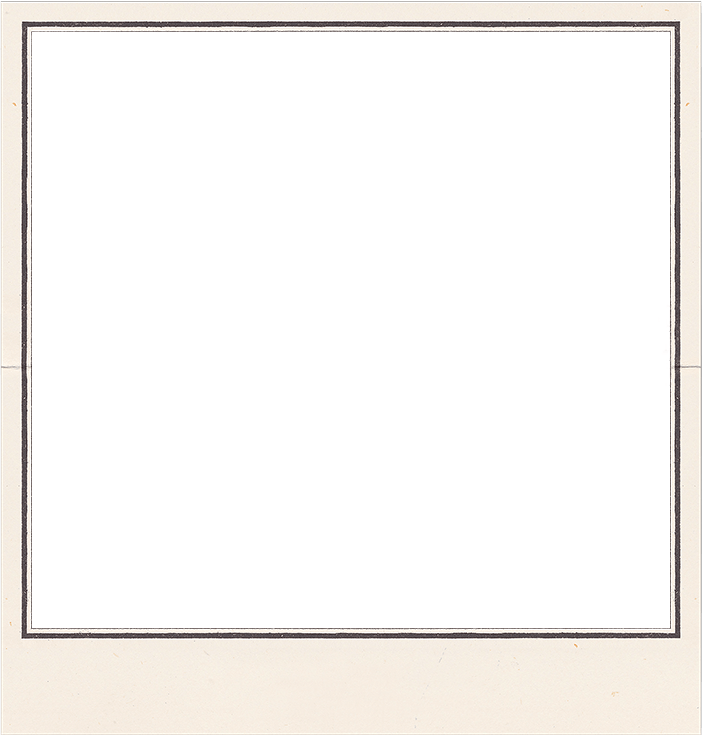
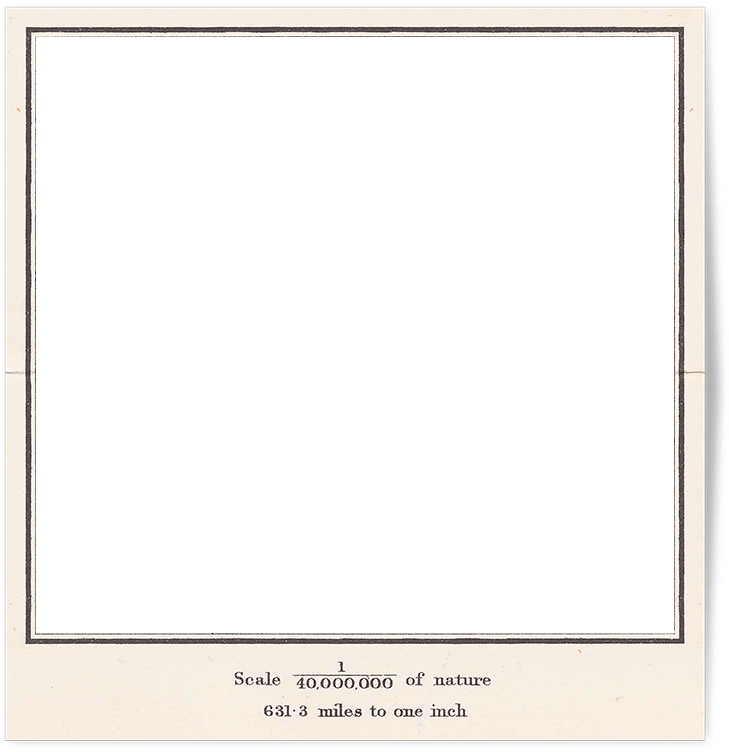
Listen section objects now fade in after record is playing. Fixed record noises not playing after the first play. Increased size of record/albums on desktop. Updated map asset.

Changed region(s): [[0.0, 0.0, 1.0, 1.0]]

diff --git a/app/js/components/ListenSection.js b/app/js/components/ListenSection.js
@@ -58,20 +58,29 @@ export default class ListenSection extends Component {
 			if (typeof value === 'undefined') {
 				return
 			}
-			this.elements.about.removeClass('show')
-			this.elements.work.removeClass('show')
-			this.elements.contact.removeClass('show')
+			this.elements.about.addClass('fade-out')
+			this.elements.contact.addClass('fade-out')
+			this.elements.work.addClass('fade-out')
+			break
+		case 'playing':
+			if (typeof this.global.currentRecord === 'undefined') {
+				return
+			}
 
-			switch (value) {
+			this.elements.about.removeClass('fade-out').removeClass('fade-in')
+			this.elements.contact.removeClass('fade-out').removeClass('fade-in')
+			this.elements.work.removeClass('fade-out').removeClass('fade-in')
+
+			switch (this.global.currentRecord) {
 			case Enum.ALBUMS.ABOUT:
-				this.elements.about.addClass('show')
+				this.elements.about.addClass('fade-in')
 				break
 			case Enum.ALBUMS.CONTACT:
-				this.elements.contact.addClass('show')
+				this.elements.contact.addClass('fade-in')
 				this.resize()
 				break
 			case Enum.ALBUMS.WORK:
-				this.elements.work.addClass('show')
+				this.elements.work.addClass('fade-in')
 				break
 			default:
 				break

diff --git a/app/index.html b/app/index.html
@@ -112,7 +112,7 @@
 					<img class="background" src="images/player.jpg" />
 				</div>
 				<div class="listen-section">
-					<div class="about content show"></div>
+					<div class="about content"></div>
 					<div class="work content">
 						<div class="title-container">
 							<div class="tv-title"><img src="images/Item_Envelope_TV.png"></div>
@@ -152,6 +152,7 @@
 						<br>
 						<h4>Tom</h4>
 						<p>Musicians, actors, celebrities, writers, producers and clients love Tom’s low key control. Having spent time in each role, he understandsthe needs and the headspace of each. As well being a business person, clients know that he truly understands their business. If you were listening instead of reading, you’d be hearing his smooth voice.</p>
+						<img class="cactus" src="images/Item_Cactus.png">
 					</div>
 					<div class="work content">
 						<p>At Tom & Dave, we have over 30 years of experience crafting radio, TV, and more for a variety of clients.</p>
@@ -210,6 +211,7 @@
 		</div>
 	</div>
 </div>
+<script src="https://cdn.polyfill.io/v2/polyfill.js?features=Object.values"></script>
 <script src="//www.youtube.com/iframe_api" async></script>
 </body>
 </html>

diff --git a/app/scss/global/_ListenSection.scss b/app/scss/global/_ListenSection.scss
@@ -7,7 +7,14 @@
 
 	.content {
 		opacity: 0;
-		display: none;
+		visibility: hidden;
+		transform: translateY(20px);
+		transition: transform 0.8s;
+		transition-timing-function: ease-out;
+
+		&.fade-in {
+			transform: translateY(0px);
+		}
 	}
 
 	@media(max-width: $phone) {
@@ -40,46 +47,6 @@
 	display: none;
 	text-align: center;
 	margin-bottom: 30px;
-}
-
-.contact {
-	.map {
-		position: relative;
-		width: 80%;
-		margin-left: 50%;
-		transform: translateX(-50%);
-		margin-bottom: 80px;
-
-		.foreground {
-			position: absolute;
-			top: 0;
-			left: 0;
-			width: 100%;
-			z-index: 4;
-			pointer-events: none;
-		}
-
-		.middleground {
-			position: absolute;
-			width: 93%;
-			left: 4%;
-			top: 4%;
-			transition: opacity 0.3s;
-			z-index: 3;
-		}
-
-		.background {
-			position: relative;
-			width: 92.5%;
-			margin-left: 4%;
-			margin-top: 4%;
-			z-index: 2;
-		}
-
-		iframe {
-			pointer-events: auto;
-		}
-	}
 }
 
 .work {

diff --git a/app/scss/global/_ReadSection.scss b/app/scss/global/_ReadSection.scss
@@ -44,6 +44,13 @@
 				font-size: 9pt;
 			}
 		}
+
+		.cactus {
+			position: relative;
+			margin-top: 40px;
+			left: 68%;
+			width: 180px;
+		}
 	}
 
 	.work {
@@ -54,7 +61,42 @@
 
 	.contact {
 		.map {
+			position: relative;
+			width: 80%;
+			margin-left: 50%;
+			transform: translateX(-50%);
+			margin-bottom: 80px;
 			margin-top: 20px;
+	
+			.foreground {
+				position: absolute;
+				top: -5px;
+				left: 0;
+				width: 100%;
+				z-index: 4;
+				pointer-events: none;
+			}
+	
+			.middleground {
+				position: absolute;
+				width: 88%;
+				left: 5%;
+				top: 4%;
+				transition: opacity 0.3s;
+				z-index: 3;
+			}
+	
+			.background {
+				position: relative;
+				width: 88%;
+				margin-left: 5%;
+				margin-top: 4%;
+				z-index: 2;
+			}
+	
+			iframe {
+				pointer-events: auto;
+			}
 		}
 	}
 

diff --git a/app/scss/global/_RecordPlayer.scss b/app/scss/global/_RecordPlayer.scss
@@ -1,8 +1,8 @@
 .record-player {
 	position: relative !important;
 	@include hcenter();
-	width: 320px;
-	top: 300px;
+	width: 350px;
+	top: 320px;
 	z-index: 1;
 
 	.background {
@@ -12,8 +12,8 @@
 	.play-button {
 		position: absolute;
 		width: percentage(75 / 490);
-		bottom: 18px;
-		left: 16px;
+		bottom: 19px;
+		left: 18px;
 		cursor: pointer;
 
 		.stopped, .normal {
@@ -58,8 +58,8 @@
 
 	.record {
 		position: absolute;
-		width: 180px;
-		left: 70px;
+		width: 200px;
+		left: 75px;
 		top: 16px;
 		z-index: 2;
 
@@ -92,8 +92,8 @@
 	.needle {
 		position: absolute;
 		width: 91.6%;
-		top: -96px;
-		right: -104px;
+		top: -104px;
+		right: -114px;
 		z-index: 5;
 
 		&.active {

diff --git a/app/scss/_util.scss b/app/scss/_util.scss
@@ -25,3 +25,49 @@
 .orange {
 	color: $orangeColor;
 }
+
+@keyframes fadeIn {
+	0% {
+		visibility: hidden;
+		opacity: 0;
+	}
+
+	1% {
+		visibility: visible;
+		opacity: 0;
+	}
+
+	100% {
+		visibility: visible;
+		opacity: 1;
+	}
+}
+
+@keyframes fadeOut {
+	0% {
+		visibility: visible;
+		opacity: 1;
+	}
+
+	99% {
+		visibility: visible;
+		opacity: 0;
+	}
+
+	100% {
+		visibility: hidden;
+		opacity: 0;
+	}
+}
+
+.fade-in {
+	animation-name: fadeIn;
+	animation-duration: 1s;
+	animation-fill-mode: forwards;
+}
+
+.fade-out {
+	animation-name: fadeOut;
+	animation-duration: 1s;
+	animation-fill-mode: forwards;
+}

diff --git a/app/js/components/Legal.js b/app/js/components/Legal.js
@@ -9,13 +9,13 @@ export default class Legal extends Component {
 		switch (param) {
 		case 'currentRecord':
 			if (typeof value !== 'undefined') {
-				if (value === 0 && this.global.reading === false) {
-					this.$.removeClass('show')
+				if ((value === 0 || value === 2) && this.global.reading === false) {
+					this.$.removeClass('fade-in')
 				} else {
-					this.$.addClass('show')
+					this.$.addClass('fade-in')
 				}
 			} else {
-				this.$.removeClass('show')
+				this.$.removeClass('fade-in')
 			}
 			break
 		default:

diff --git a/app/js/services/AudioManager.js b/app/js/services/AudioManager.js
@@ -12,7 +12,7 @@ class _AudioManager extends Observer {
 			id: tag,
 			playing: false
 		}
-		const howl = new Howl({ src: path, onend: this.onEnd.bind(this, sound) })
+		const howl = new Howl({ src: path, onend: this.onEnd.bind(this, tag, sound) })
 		sound.audio = howl
 
 		this.sounds[tag] = sound
@@ -52,7 +52,10 @@ class _AudioManager extends Observer {
 		}
 	}
 
-	onEnd(sound) {
+	onEnd(tag, sound) {
+		if (tag in this.sounds) {
+			this.sounds[tag].playing = false
+		}
 		this.emit('end', sound)
 	}
 }

diff --git a/app/js/components/ReadSection.js b/app/js/components/ReadSection.js
@@ -39,7 +39,6 @@ export default class ReadSection extends Component {
 	}
 
 	resize() {
-		console.log('resize read')
 		$(this.elements.mapBackground).css('height', this.elements.mapMiddleground.height() + 10)
 	}
 
@@ -48,6 +47,7 @@ export default class ReadSection extends Component {
 		case 'reading':
 			if (value) {
 				this.$.removeClass('hide-block')
+				this.resize()
 			} else {
 				this.$.addClass('hide-block')
 			}

diff --git a/app/scss/global/_RecordAnimation.scss b/app/scss/global/_RecordAnimation.scss
@@ -1,6 +1,6 @@
 .record-animation {
 	top: 50px;
-	width: 200px;
+	width: 220px;
 	@include hcenter();
 	z-index: 3;
 	pointer-events: none;
@@ -39,11 +39,11 @@
 	}
 
 	.album .contact {
-		transform: translateX(220px);
+		transform: translateX(240px);
 	}
 
 	.album .about {
-		transform: translateX(-220px);
+		transform: translateX(-240px);
 	}
 
 	.rotateAlbum {

diff --git a/app/scss/global/_AlbumGallery.scss b/app/scss/global/_AlbumGallery.scss
@@ -1,7 +1,7 @@
 .album-gallery {
 	position: relative;
 	display: inline-block;
-	width: 640px;
+	width: 700px;
 	top: 50px;
 	@include hcenter();
 	z-index: 2;
@@ -21,8 +21,8 @@
 
 	.album {
 		position: relative;
-		width: 200px;
-		height: 200px;
+		width: 220px;
+		height: 220px;
 		float: left;
 		margin: 0 10px;
 		cursor: pointer;

diff --git a/app/js/components/RecordPlayer.js b/app/js/components/RecordPlayer.js
@@ -121,6 +121,7 @@ export default class RecordPlayer extends Component {
 				}
 
 				AudioManager.stop(this.global.currentRecord)
+				AudioManager.stop('record_noises')
 				this.elements.button.removeClass('playing')
 				this.elements[this.global.currentRecord].addClass('paused')
 				this.setGlobal('needleActivated', false)
